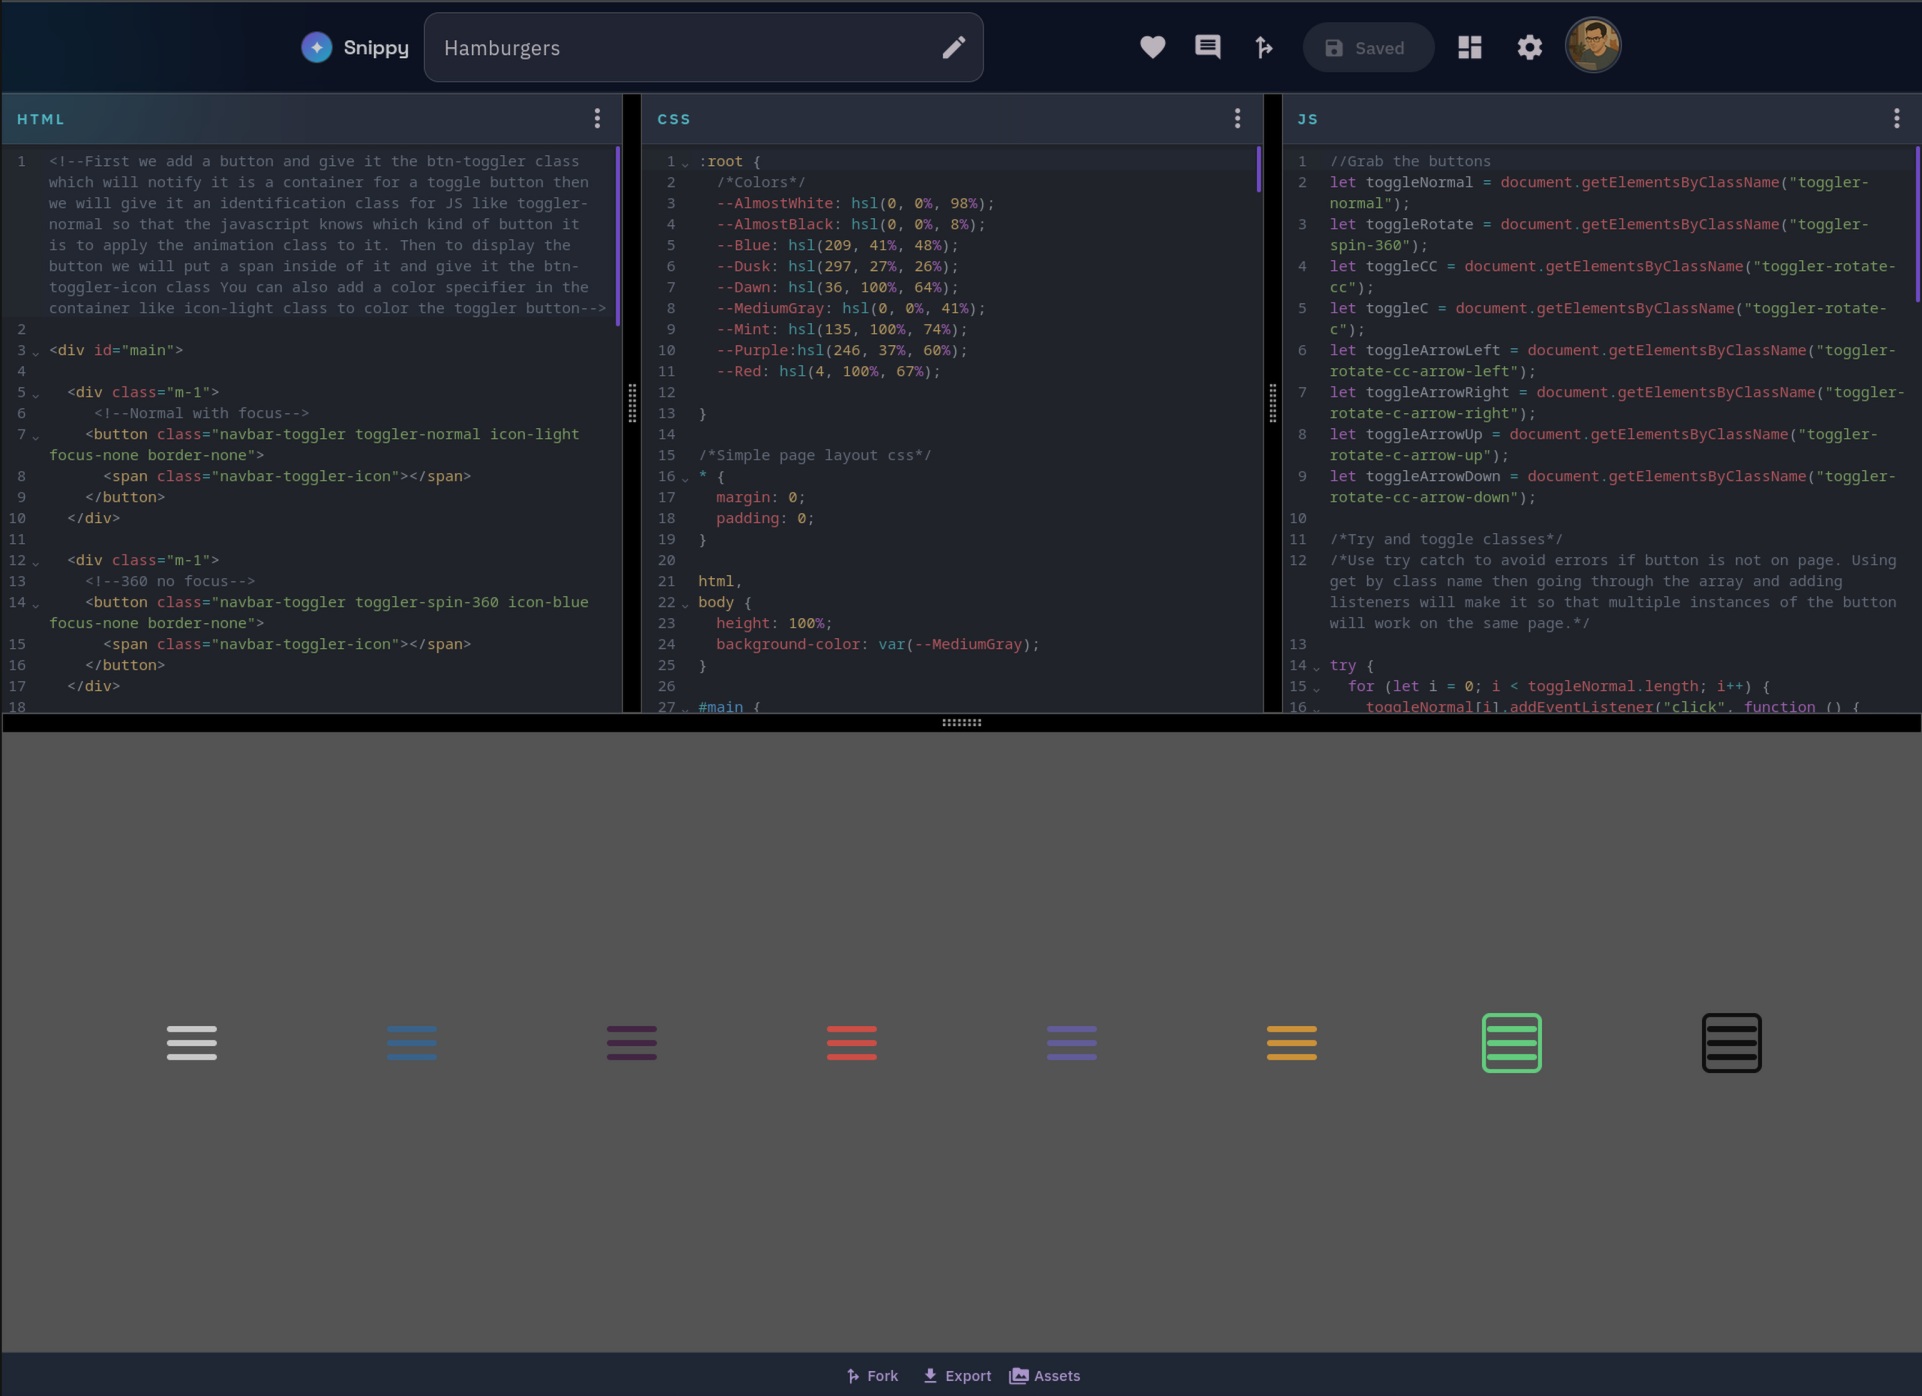
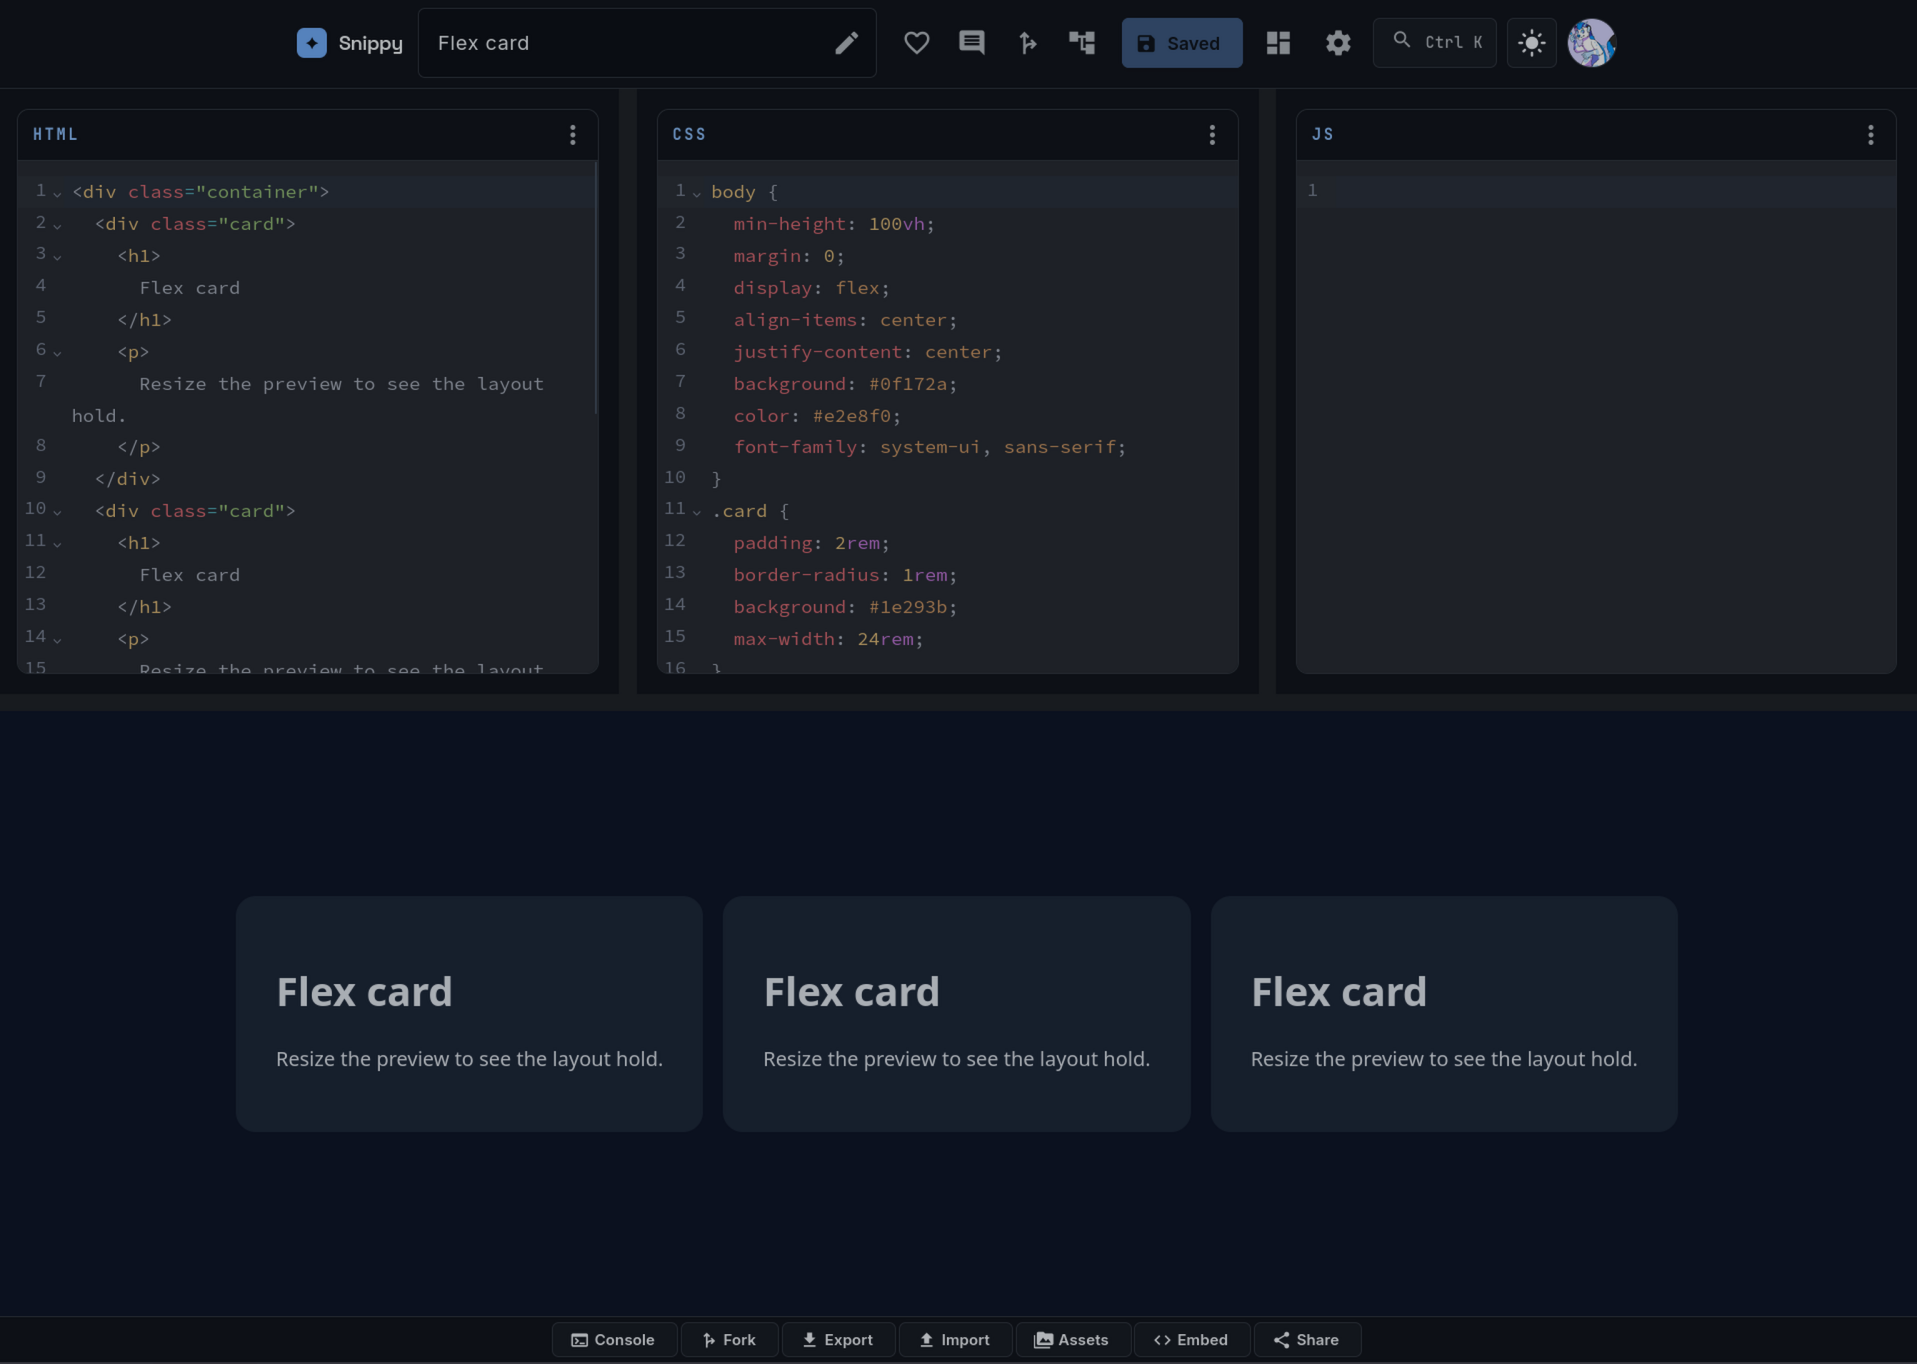
Update to fix a window popup issue.

diff --git a/snippy/frontend/public/oauth2-popup-close.html b/snippy/frontend/public/oauth2-popup-close.html
@@ -1,0 +1,13 @@
+<!DOCTYPE html>
+<html lang="en">
+  <head>
+    <meta charset="utf-8" />
+    <meta name="viewport" content="width=device-width, initial-scale=1" />
+    <meta name="referrer" content="no-referrer" />
+    <title>Signed in</title>
+  </head>
+  <body>
+    <p id="msg">Signed in. You can close this window.</p>
+    <script src="/oauth2-popup-close.js"></script>
+  </body>
+</html>

diff --git a/snippy/frontend/public/oauth2-popup-close.js b/snippy/frontend/public/oauth2-popup-close.js
@@ -1,0 +1,9 @@
+(function () {
+  var failed = location.hash.indexOf('oauth2-redirect-failure') !== -1;
+  var msg = document.getElementById('msg');
+  if (failed) {
+    document.title = 'Sign-in failed';
+    if (msg) msg.textContent = 'Sign-in did not finish. Close this window and try again.';
+  }
+  window.close();
+})();

diff --git a/documentation/frontend.md b/documentation/frontend.md
@@ -1,6 +1,6 @@
 # Snippy frontend
 
-Angular 22 standalone SPA in [`snippy/frontend`](../snippy/frontend). There is **no Node/Express API**. The browser talks to **PocketBase** (auth, SQLite, files, collection rules, hooks) through a same-origin proxy on `/api/`. Production nginx does not proxy the Admin UI (`/_/`).
+Angular 22 standalone SPA in [`snippy/frontend`](../snippy/frontend). There is **no Node/Express API**. The browser talks to **PocketBase** (auth, SQLite, files, collection rules, hooks) through a same-origin proxy on `/api/`. Production nginx does not proxy the Admin UI. `/_/` is the OAuth popup close page.
 
 Signals hold domain state. Angular Material + Tailwind draw chrome. The [PocketBase JS SDK](https://github.com/pocketbase/js-sdk) is the only backend client, except cdnjs for extra CSS/JS libraries.
 
@@ -31,7 +31,7 @@ Related: [PocketBase collections and rules](db.md) · [self-host README](../READ
 
 Dev: [`proxy.conf.js`](../snippy/frontend/proxy.conf.js) forwards `/api` and `/_/` to PocketBase (`http://127.0.0.1:8090`, or `POCKETBASE_PROXY_TARGET` inside Compose). `ng serve` loads it from `angular.json`. The Admin UI is still the PocketBase process.
 
-Prod: [`nginx.site.conf`](../snippy/frontend/nginx.site.conf) forwards `/api/` only. CSP `connect-src` is `'self' blob: data:` plus `https://api.cdnjs.com` and `https://cdnjs.cloudflare.com`. `script-src` keeps `'unsafe-inline'`, `'unsafe-eval'`, and `https:` because the editor and CDN libraries need them. Snippet HTML and JS run only in the preview `srcdoc` iframe (`allow-scripts`, no `allow-same-origin`, no `allow-top-navigation`, no `allow-popups-to-escape-sandbox`). Snapshot capture uses a second iframe with `allow-same-origin` and no scripts. Embed sandbox headers stay on `/embed/`.
+Prod: [`nginx.site.conf`](../snippy/frontend/nginx.site.conf) forwards `/api/` only. `/_/` is not the Admin UI. PocketBase sends the OAuth popup there to close it, so nginx serves [`oauth2-popup-close.html`](../snippy/frontend/public/oauth2-popup-close.html) for that path. The Admin UI stays on `127.0.0.1:8090/_/`. CSP `connect-src` is `'self' blob: data:` plus `https://api.cdnjs.com` and `https://cdnjs.cloudflare.com`. `script-src` keeps `'unsafe-inline'`, `'unsafe-eval'`, and `https:` because the editor and CDN libraries need them. Snippet HTML and JS run only in the preview `srcdoc` iframe (`allow-scripts`, no `allow-same-origin`, no `allow-top-navigation`, no `allow-popups-to-escape-sandbox`). Snapshot capture uses a second iframe with `allow-same-origin` and no scripts. Embed sandbox headers stay on `/embed/`.
 
 ```mermaid
 flowchart LR

diff --git a/README.md b/README.md
@@ -181,7 +181,7 @@ Migrations and hooks bind-mount from `snippy/pocketbase/pb_migrations` and `pb_h
 
 ## Production deployment
 
-Use [`docker-compose.prod.example.yml`](docker-compose.prod.example.yml). Set `PB_APP_URL` to your HTTPS origin. Put TLS in front (any reverse proxy works). Point the proxy at the frontend container. nginx forwards `/api/` to PocketBase on the compose network. It does not forward `/_/`.
+Use [`docker-compose.prod.example.yml`](docker-compose.prod.example.yml). Set `PB_APP_URL` to your HTTPS origin. Put TLS in front (any reverse proxy works). Point the proxy at the frontend container. nginx forwards `/api/` to PocketBase on the compose network. It does not forward the Admin UI. `/_/` serves a static page that closes the OAuth popup (PocketBase redirects the popup there after GitHub login).
 
 The Admin UI stays on the PocketBase port, which the example compose file binds to `127.0.0.1:8090`. Reach it with an SSH tunnel or from the host. Do not publish that port on the public interface.
 
